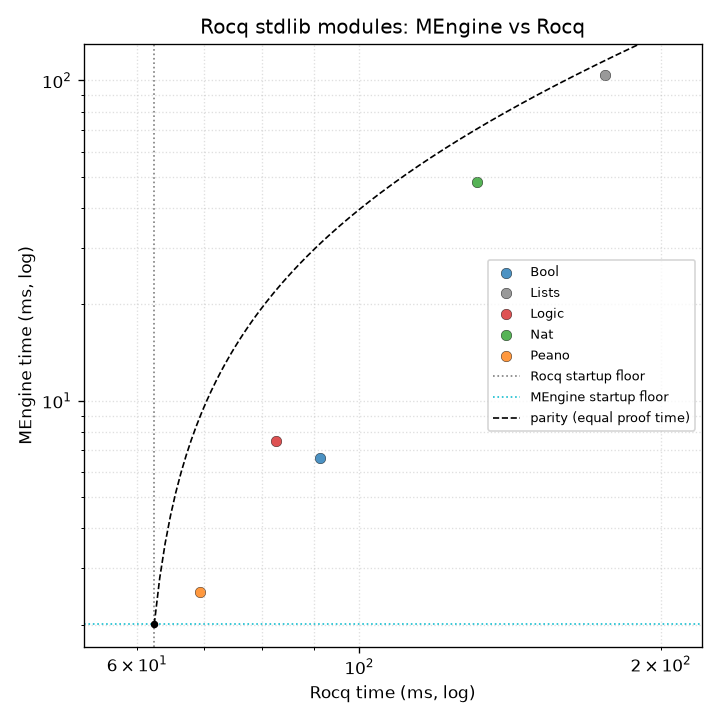
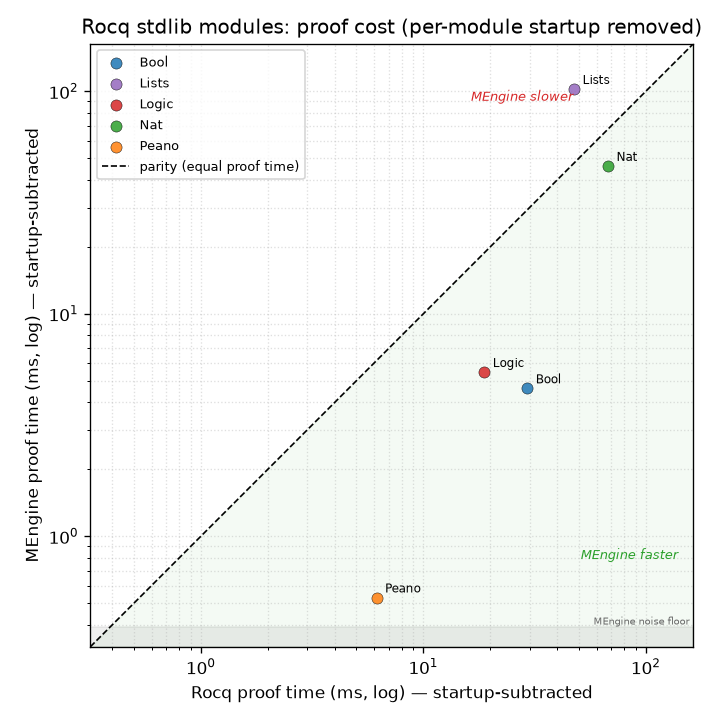
Plot startup-subtracted proof time, not whole-file time, in the stdlib scatter
The whole-file scatter was dishonest about Lists.  Because Lists Requires
Coq.Lists.List, its Rocq startup floor (~128 ms) is double every other module's
(~62 ms).  Plotting whole-file time charged that one-time library load to Lists'
x-coordinate, and the single parity line — necessarily anchored at the *global*
Rocq floor — credited Rocq back only ~62 ms of it.  So Lists fell below parity
and read as an MEngine win, when on actual proof cost MEngine is ~2x *slower*
there (map/rev induction is genuinely heavier in MEngine).  No single line over
whole-file points can be honest when the per-module floors differ.

The scatter now plots each module's own-floor-subtracted proof time (Rocq x vs
MEngine y, log-log), where the honest parity is plain y = x: shaded lower-right =
MEngine proof-faster, above the line (Lists) = MEngine proof-slower, with a band
at the MEngine noise floor marking where a residual stops being trustworthy.
Points are labeled by module.  Whole-file numbers are unchanged and remain in
REPORT.md's `total` columns; they are just no longer the axis a proof-speed claim
is read off of.  README and PLAN updated to explain the choice.

Claude-Session: https://claude.ai/code/session_01GNvD2hCU3jo1wq6fCLv9GT

diff --git a/benchmarks/stdlib/report.py b/benchmarks/stdlib/report.py
@@ -221,62 +221,78 @@ def _scatter(cfg, rows, meta=None):
         return
 
     meta = meta or {}
-    colors = {"Bool": "tab:blue", "Nat": "tab:green", "Peano": "tab:orange",
-              "Logic": "tab:red"}
-    pts = [r for r in rows if r["mengine"] and r["rocq"]]
+    colors = {"Bool": "tab:blue", "Lists": "tab:purple", "Logic": "tab:red",
+              "Nat": "tab:green", "Peano": "tab:orange"}
+    m_floor = meta.get("mengine_floor")
+    m_noise = meta.get("mengine_noise") or 0.0
+
+    # Plot *startup-subtracted proof times*, not whole-file times.  This is the
+    # one honest axis choice when modules have different startup floors: `Lists`
+    # `Require`s `Coq.Lists.List`, so its Rocq floor (~128 ms) is double every
+    # other module's (~62 ms).  A whole-file scatter charges that library load to
+    # Lists' x-coordinate, and a single parity line — anchored at the *global*
+    # Rocq floor — credits Rocq only ~62 ms of it, so Lists drops below parity
+    # and reads as an MEngine win when MEngine's proof is in fact ~2× slower.
+    # Each point here instead carries its *own* module's floor (subtracted in
+    # `_load` via `coq__baseline__<unit>`), so the axes are directly comparable
+    # and the parity line is the honest y = x: above it MEngine's proof is
+    # slower, below it faster.  (Whole-file numbers remain in REPORT.md's table.)
+    pts = []
+    dropped = []
+    for r in rows:
+        rp, mp = r.get("rocq_proof"), r.get("mengine_proof")
+        if rp is None or mp is None or rp <= 0 or mp <= 0:
+            dropped.append(r["unit"])
+            continue
+        pts.append(r)
     if not pts:
+        print("(skipping scatter plot: no module has a measurable proof residual; "
+              f"all at/below startup floor: {', '.join(dropped) or 'none'})")
         return
+    if dropped:
+        print(f"(scatter: {', '.join(dropped)} omitted — proof residual clamped to "
+              "0, i.e. indistinguishable from startup)")
+
     fig, ax = plt.subplots(figsize=(6, 6))
     for cat in sorted({r["category"] for r in pts}):
-        xs = [r["rocq"] * 1000 for r in pts if r["category"] == cat]
-        ys = [r["mengine"] * 1000 for r in pts if r["category"] == cat]
+        sub = [r for r in pts if r["category"] == cat]
+        xs = [r["rocq_proof"] * 1000 for r in sub]
+        ys = [r["mengine_proof"] * 1000 for r in sub]
         ax.scatter(xs, ys, label=cat, color=colors.get(cat, "gray"),
-                   s=40, alpha=0.8, edgecolors="k", linewidths=0.3)
+                   s=45, alpha=0.85, edgecolors="k", linewidths=0.3, zorder=3)
+    for r in pts:  # label each point with its module name
+        ax.annotate(r["unit"], (r["rocq_proof"] * 1000, r["mengine_proof"] * 1000),
+                    textcoords="offset points", xytext=(5, 3), fontsize=7)
 
-    # Independent x/y limits, each padded around its own data and startup floor.
-    # The data now sits in one corner (Rocq is startup-bound, MEngine proofs are
-    # ~ms), so a shared square range would waste most of the canvas; the parity
-    # line is an explicit curve, not a 45° diagonal, so equal aspect isn't needed.
-    LO_PAD, HI_PAD = 0.85, 1.25
-    r_floor, m_floor = meta.get("rocq_floor"), meta.get("mengine_floor")
-    xvals = [r["rocq"] * 1000 for r in pts] + ([r_floor * 1000] if r_floor else [])
-    yvals = [r["mengine"] * 1000 for r in pts] + ([m_floor * 1000] if m_floor else [])
-    xlo, xhi = min(xvals) * LO_PAD, max(xvals) * HI_PAD
-    ylo, yhi = min(yvals) * LO_PAD, max(yvals) * HI_PAD
+    xs_all = [r["rocq_proof"] * 1000 for r in pts]
+    ys_all = [r["mengine_proof"] * 1000 for r in pts]
+    lo = min(xs_all + ys_all) * 0.6
+    hi = max(xs_all + ys_all) * 1.6
 
-    # Startup floors: the scatter is dominated by per-invocation cost, so drawing
-    # the floors makes explicit that the whole-file comparison is mostly startup.
-    if r_floor:
-        ax.axvline(r_floor * 1000, color="tab:gray", ls=":", lw=1,
-                   label="Rocq startup floor")
-    if m_floor:
-        ax.axhline(m_floor * 1000, color="tab:cyan", ls=":", lw=1,
-                   label="MEngine startup floor")
+    # Honest parity: equal proof time on both engines is y = x (startup already
+    # removed per module).  Shade the MEngine-faster half so the read is obvious.
+    ax.plot([lo, hi], [lo, hi], "k--", lw=1, label="parity (equal proof time)")
+    ax.fill_between([lo, hi], [lo, lo], [lo, hi], color="tab:green", alpha=0.05)
+    ax.text(hi * 0.85, lo * 2.4, "MEngine faster", fontsize=8, ha="right",
+            va="bottom", color="tab:green", style="italic")
+    ax.text(hi * 0.10, hi * 0.62, "MEngine slower", fontsize=8, ha="left",
+            va="top", color="tab:red", style="italic")
 
-    # Parity line.  A whole-file time is startup + proof, so *equal proof cost*
-    # is not y = x (that assumes zero startup and makes every point look far
-    # below parity — the dishonest, startup-dominated ratio).  It is
-    # y - m0 = x - r0: a slope-1 line in linear space anchored where the two
-    # startup floors meet, (r0, m0).  A point on it has equal proof time on both
-    # engines; below it MEngine's proof is faster, above it slower.  On log-log
-    # axes this is a curve that bends at the floor cross and asymptotes to y = x.
-    # Without baselines we cannot subtract startup, so fall back to naive y = x.
-    if r_floor and m_floor:
-        r0, m0 = r_floor * 1000, m_floor * 1000
-        npts = 200
-        xs_line = [r0 + (xhi - r0) * k / (npts - 1) for k in range(npts)]
-        ys_line = [m0 + (x - r0) for x in xs_line]
-        ax.plot(xs_line, ys_line, "k--", lw=1, label="parity (equal proof time)")
-        ax.plot([r0], [m0], "k.", ms=7, zorder=5)  # the floor cross = origin
-    else:
-        ax.plot([xlo, xhi], [ylo, yhi], "k--", lw=1, label="parity")
+    # Reliability floor: a residual at/below the baseline's own run-to-run jitter
+    # is not distinguishable from startup.  Shade that band so borderline points
+    # (e.g. Peano) are read with appropriate caution rather than as hard numbers.
+    if m_floor is not None and m_noise > 0:
+        ax.axhspan(lo, m_noise * 1000, color="tab:gray", alpha=0.12, zorder=0)
+        ax.text(hi * 0.96, m_noise * 1000, "MEngine noise floor", fontsize=6,
+                ha="right", va="bottom", color="dimgray")
 
     ax.set_xscale("log"); ax.set_yscale("log")
-    ax.set_xlim(xlo, xhi); ax.set_ylim(ylo, yhi)
-    ax.set_xlabel("Rocq time (ms, log)")
-    ax.set_ylabel("MEngine time (ms, log)")
-    ax.set_title("Rocq stdlib modules: MEngine vs Rocq")
-    ax.legend(fontsize=8, loc="best")
+    ax.set_xlim(lo, hi); ax.set_ylim(lo, hi)
+    ax.set_aspect("equal")
+    ax.set_xlabel("Rocq proof time (ms, log) — startup-subtracted")
+    ax.set_ylabel("MEngine proof time (ms, log) — startup-subtracted")
+    ax.set_title("Rocq stdlib modules: proof cost (per-module startup removed)")
+    ax.legend(fontsize=8, loc="upper left")
     ax.grid(True, which="both", ls=":", alpha=0.4)
     os.makedirs(cfg["plots_dir"], exist_ok=True)
     out = os.path.join(cfg["plots_dir"], "stdlib_scatter.png")

diff --git a/benchmarks/stdlib/README.md b/benchmarks/stdlib/README.md
@@ -103,11 +103,29 @@ baseline loads `List` too (~138 ms vs the ~64 ms empty floor) — that library l
 is therefore subtracted from Lists' time, not mistaken for proof cost.
 `report` subtracts each module's floor from its whole-file time (clamped at 0) to
 get the marginal statement+proof cost, and reports a residual at or below the
-baseline's own run-to-run jitter as `~0` (indistinguishable from startup).  For
-the current Tier-A corpus every proof is trivial enough that its
-startup-subtracted cost lands below the noise floor on both engines — so the
-headline ~30× whole-file ratio is a *process-startup* ratio, and measuring proof
-speed above the floor needs heavier units.
+baseline's own run-to-run jitter as `~0` (indistinguishable from startup).  The
+trivial modules (`Bool`, `Logic`, `Peano`) sit just above their MEngine floor and
+the lighter side of Rocq's; the two computational modules clear it comfortably —
+`Nat` (~46 ms MEngine / ~68 ms Rocq) and `Lists` (~102 ms MEngine / ~48 ms Rocq) —
+so proof cost is now measurable, not pure startup noise.  The whole-file ratio
+remains a *process-startup* ratio and is reported only as the raw `total` columns.
+
+**The scatter plots proof time, not whole-file time — deliberately.**  A
+whole-file scatter is *dishonest* here, and `Lists` is exactly why.  Because
+`Lists` `Require`s `Coq.Lists.List`, its Rocq startup floor (~128 ms) is double
+every other module's (~62 ms).  Plotting whole-file time charges that one-time
+library load to Lists' x-coordinate, and any *single* parity line — necessarily
+anchored at the *global* Rocq floor — credits Rocq back only ~62 ms of it.  So
+Lists drops below the line and reads as an MEngine win, when on actual proof cost
+MEngine is ~2× **slower** there (`map`/`rev` induction is genuinely heavier in
+MEngine than in Rocq).  No single line over whole-file points can be honest when
+the per-module floors differ.  `plots/stdlib_scatter.png` therefore plots each
+module's **own-floor-subtracted proof time** (Rocq x vs MEngine y, log-log), where
+the honest parity is simply `y = x`: points in the shaded lower-right are MEngine
+proof-faster, points above the line (Lists) are MEngine proof-slower, and a band
+at the MEngine noise floor marks where a residual stops being trustworthy.  The
+whole-file numbers are not discarded — they stay in REPORT.md's `total` columns —
+they are just not the axis a proof-speed claim is read off of.
 
 ## Layout
 
@@ -129,7 +147,7 @@ benchmarks/stdlib/
     <Module>/mengine.me    auto-translated MEngine source
   results/stdlib.json      per-module timings + per-engine startup baselines
   results/REPORT.md        generated table + geometric-mean summary
-  plots/stdlib_scatter.png generated scatter (Rocq x vs MEngine y, log-log)
+  plots/stdlib_scatter.png generated scatter: per-module startup-subtracted proof time (Rocq x vs MEngine y, log-log, y=x parity)
 ```
 
 ## Usage

diff --git a/benchmarks/stdlib/PLAN.md b/benchmarks/stdlib/PLAN.md
@@ -306,9 +306,15 @@ Reuses `framework/runner.run_single` timing logic; subcommands mirror `bench.py`
 
 - **Markdown table:** per unit — Rocq time, MEngine time, ratio, tier, status — drop-in for
   `README.md` like the existing benchmark table.
-- **Scatter plot:** Rocq time (x) vs MEngine time (y), log-log, colored by tier, with a
-  parity line for *equal proof time* — slope-1 anchored where the two startup floors meet
-  (`y - m0 = x - r0`), not the naive `y = x` through the origin (which ignores startup).
+- **Scatter plot:** *(refined — see `README.md`, "The scatter plots proof time, not
+  whole-file time".)* The original design plotted whole-file Rocq (x) vs MEngine (y) with a
+  parity line anchored at the startup-floor cross (`y - m0 = x - r0`). That breaks once
+  modules have *different* Rocq floors: `Lists` `Require`s `Coq.Lists.List` (~128 ms floor,
+  double the ~62 ms others), and a single line anchored at the global floor cannot credit
+  that back, so Lists falls below parity and reads as an MEngine win when its proof is in
+  fact ~2× slower. The implementation therefore plots each module's **own-floor-subtracted
+  proof time**, where the honest parity is plain `y = x` (above = MEngine slower, below =
+  faster), with a noise-floor band; whole-file numbers stay in the table's `total` columns.
 - **Summary:** geometric-mean speedup over Tier A; counts (translated / built-in-both / excluded).
 
 ## 10. Phased roadmap (per-file, Tier A)
